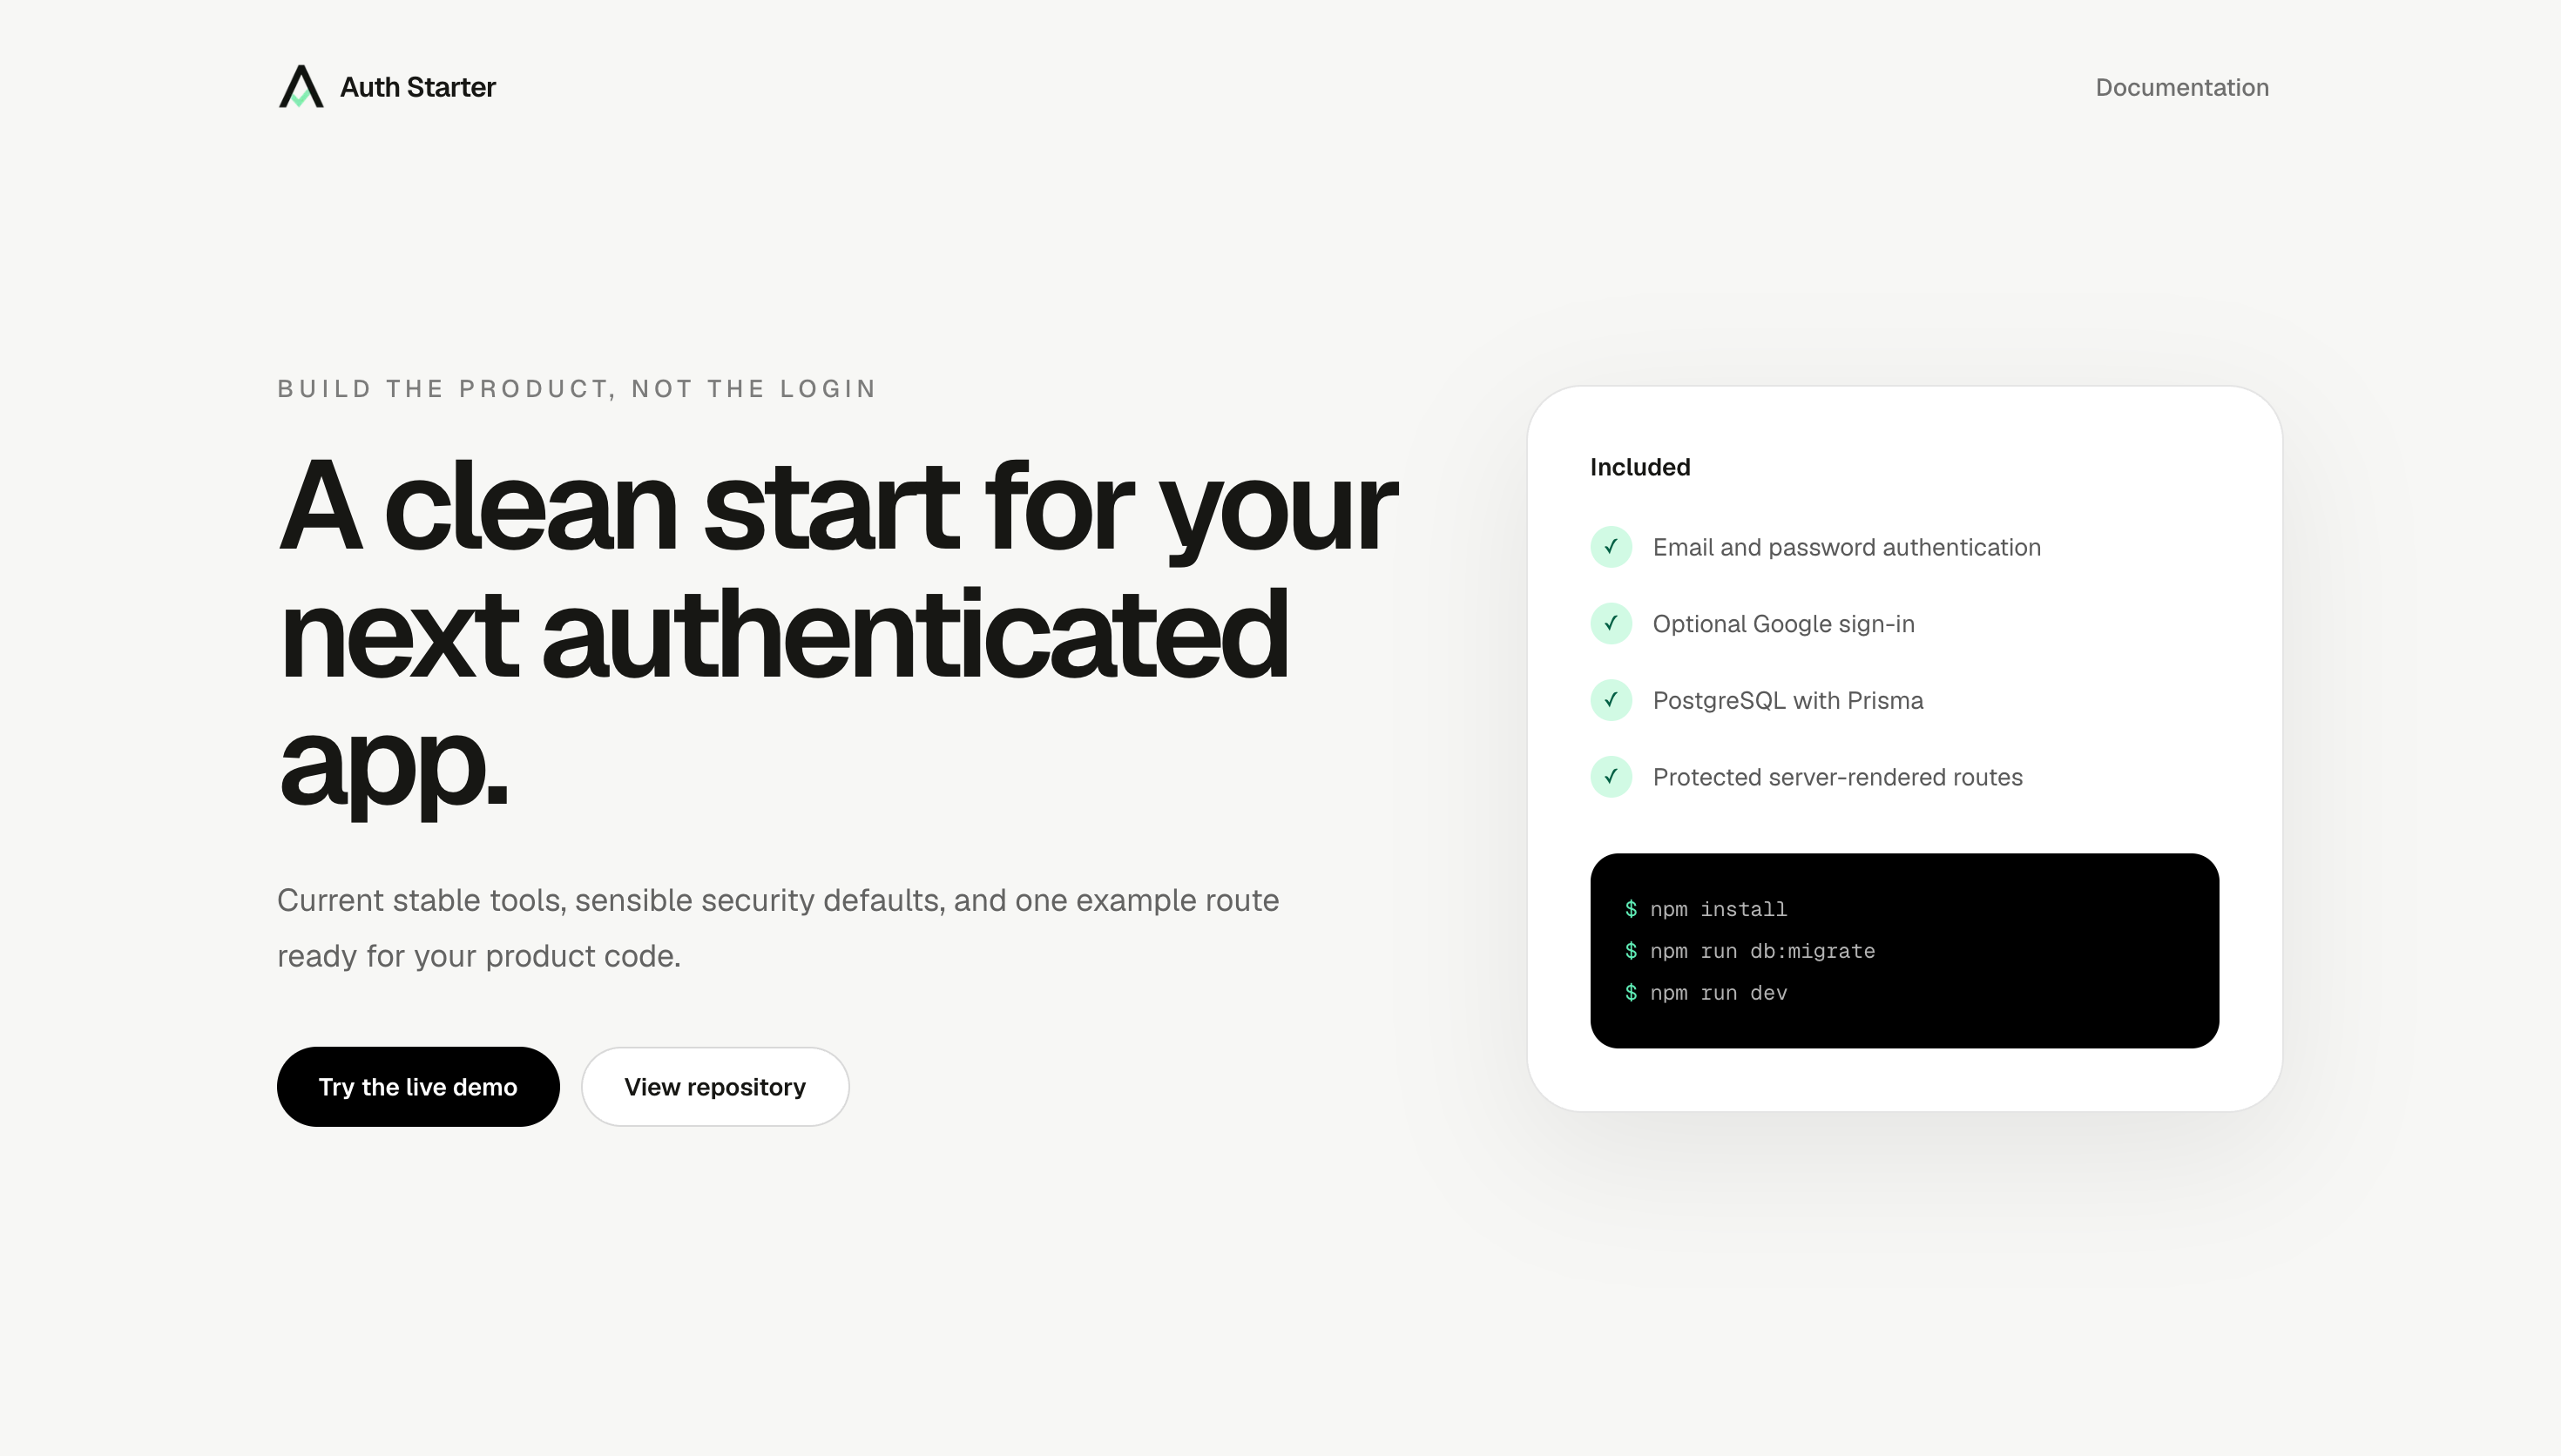
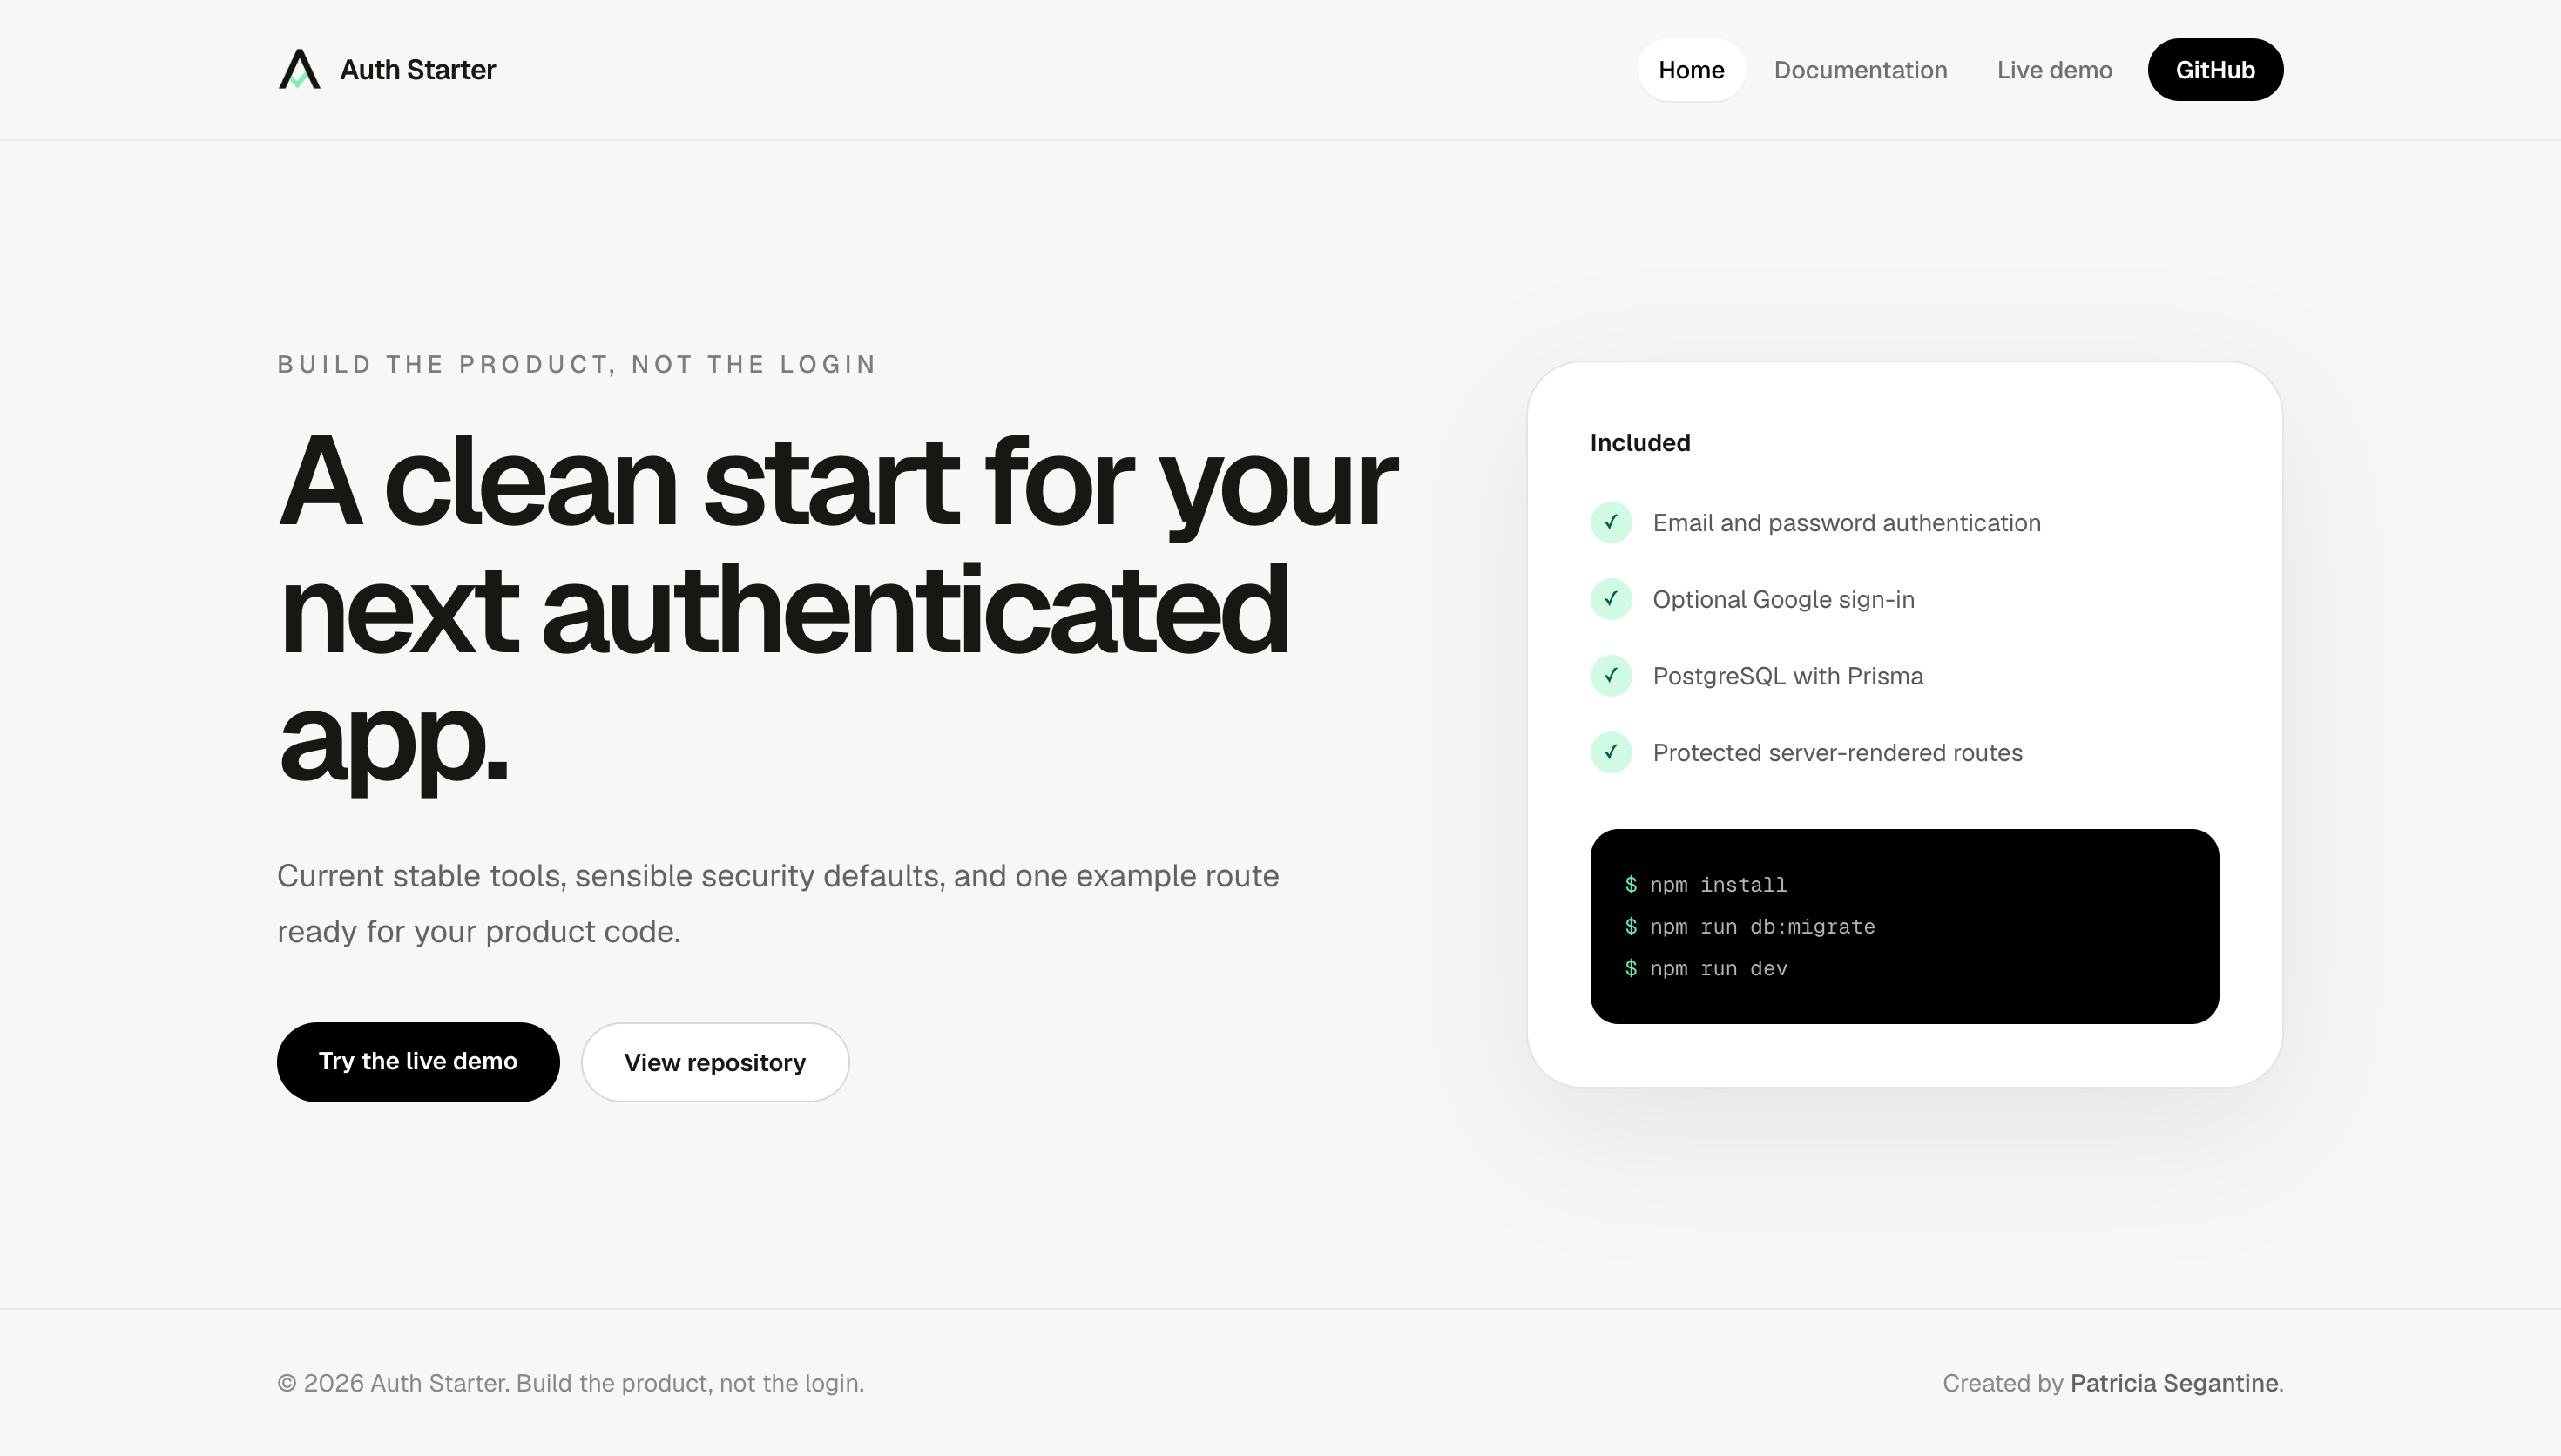
feat: add documentation placeholder and project links

diff --git a/src/app/page.tsx b/src/app/page.tsx
@@ -1,7 +1,7 @@
-"use client";
-
-import Link from "next/link";
-import Image from "next/image";
+import { LiveDemoLink } from "@/components/live-demo-link";
+import { SiteFooter } from "@/components/site-footer";
+import { SiteHeader } from "@/components/site-header";
+import { TEMPLATE_REPOSITORY_URL } from "@/lib/links";
 
 const features = [
   "Email and password authentication",
@@ -12,71 +12,58 @@ const features = [
 
 export default function Home() {
   return (
-    <main className="min-h-screen px-6 py-8 sm:px-10">
-      <nav className="mx-auto flex max-w-6xl items-center justify-between">
-        <Link href="/" className="flex items-center gap-2 font-semibold tracking-tight">
-          <Image src="/auth-starter-logo.png" alt="" width={24} height={24} priority />
-          <span>Auth Starter</span>
-        </Link>
-        <button
-          type="button"
-          onClick={() => window.alert("Documentation is coming soon.")}
-          className="cursor-pointer px-2 py-2 text-sm font-medium text-black/55 transition hover:text-black"
-        >
-          Documentation
-        </button>
-      </nav>
-
-      <section className="mx-auto grid min-h-[calc(100vh-7rem)] max-w-6xl items-center gap-16 py-20 lg:grid-cols-[1.2fr_0.8fr]">
-        <div>
-          <p className="mb-5 text-sm font-medium uppercase tracking-[0.22em] text-black/50">
-            Build the product, not the login
-          </p>
-          <h1 className="max-w-3xl text-5xl font-semibold leading-[1.02] tracking-[-0.055em] sm:text-7xl">
-            A clean start for your next authenticated app.
-          </h1>
-          <p className="mt-7 max-w-xl text-lg leading-8 text-black/60">
-            Current stable tools, sensible security defaults, and one example
-            route ready for your product code.
-          </p>
-          <div className="mt-9 flex flex-wrap gap-3">
-            <button
-              type="button"
-              onClick={() => window.alert("The live demo is coming soon.")}
-              className="cursor-pointer rounded-full bg-black px-6 py-3 text-sm font-semibold text-white transition hover:bg-black/80"
-            >
-              Try the live demo
-            </button>
-            <a
-              href="https://github.com/patriciasegantine/nextjs-auth-starter-template"
-              target="_blank"
-              rel="noopener noreferrer"
-              className="cursor-pointer rounded-full border border-black/15 bg-white px-6 py-3 text-sm font-semibold transition hover:border-black/35"
-            >
-              View repository
-            </a>
+    <div className="flex min-h-screen flex-col">
+      <SiteHeader currentPage="home" />
+      <main className="flex flex-1 px-6 sm:px-10">
+        <section className="mx-auto grid w-full max-w-6xl flex-1 items-center gap-16 py-14 lg:grid-cols-[1.2fr_0.8fr] lg:py-16">
+          <div>
+            <p className="mb-5 text-sm font-medium uppercase tracking-[0.22em] text-black/50">
+              Build the product, not the login
+            </p>
+            <h1 className="max-w-3xl text-5xl font-semibold leading-[1.02] tracking-[-0.055em] sm:text-7xl">
+              A clean start for your next authenticated app.
+            </h1>
+            <p className="mt-7 max-w-xl text-lg leading-8 text-black/60">
+              Current stable tools, sensible security defaults, and one example
+              route ready for your product code.
+            </p>
+            <div className="mt-9 flex flex-wrap gap-3">
+              <LiveDemoLink
+                label="Try the live demo"
+                className="cursor-pointer rounded-full bg-black px-6 py-3 text-sm font-semibold text-white transition hover:bg-black/80"
+              />
+              <a
+                href={TEMPLATE_REPOSITORY_URL}
+                target="_blank"
+                rel="noopener noreferrer"
+                className="cursor-pointer rounded-full border border-black/15 bg-white px-6 py-3 text-sm font-semibold transition hover:border-black/35"
+              >
+                View repository
+              </a>
+            </div>
           </div>
-        </div>
 
-        <div className="rounded-[2rem] border border-black/10 bg-white p-7 shadow-[0_24px_80px_rgba(0,0,0,0.08)] sm:p-9">
-          <p className="text-sm font-semibold">Included</p>
-          <ul className="mt-6 space-y-5">
-            {features.map((feature) => (
-              <li key={feature} className="flex items-center gap-3 text-sm text-black/65">
-                <span className="grid size-6 place-items-center rounded-full bg-emerald-100 text-xs text-emerald-800">
-                  ✓
-                </span>
-                {feature}
-              </li>
-            ))}
-          </ul>
-          <div className="mt-8 rounded-2xl bg-black p-5 font-mono text-xs leading-6 text-white/70">
-            <p><span className="text-emerald-300">$</span> npm install</p>
-            <p><span className="text-emerald-300">$</span> npm run db:migrate</p>
-            <p><span className="text-emerald-300">$</span> npm run dev</p>
+          <div className="rounded-[2rem] border border-black/10 bg-white p-7 shadow-[0_24px_80px_rgba(0,0,0,0.08)] sm:p-9">
+            <p className="text-sm font-semibold">Included</p>
+            <ul className="mt-6 space-y-5">
+              {features.map((feature) => (
+                <li key={feature} className="flex items-center gap-3 text-sm text-black/65">
+                  <span className="grid size-6 place-items-center rounded-full bg-emerald-100 text-xs text-emerald-800">
+                    ✓
+                  </span>
+                  {feature}
+                </li>
+              ))}
+            </ul>
+            <div className="mt-8 rounded-2xl bg-black p-5 font-mono text-xs leading-6 text-white/70">
+              <p><span className="text-emerald-300">$</span> npm install</p>
+              <p><span className="text-emerald-300">$</span> npm run db:migrate</p>
+              <p><span className="text-emerald-300">$</span> npm run dev</p>
+            </div>
           </div>
-        </div>
-      </section>
-    </main>
+        </section>
+      </main>
+      <SiteFooter />
+    </div>
   );
 }

diff --git a/src/components/site-header.tsx b/src/components/site-header.tsx
@@ -1,0 +1,65 @@
+import Image from "next/image";
+import Link from "next/link";
+import { LiveDemoLink } from "@/components/live-demo-link";
+import { TEMPLATE_REPOSITORY_URL } from "@/lib/links";
+
+type SiteHeaderProps = {
+  currentPage: "home" | "docs";
+};
+
+export function SiteHeader({ currentPage }: SiteHeaderProps) {
+  const navLink =
+    "rounded-full px-3 py-2 text-sm font-medium transition hover:bg-white hover:text-black";
+  const activeNavLink = "bg-white text-black shadow-[0_1px_0_rgba(0,0,0,0.05)]";
+  const inactiveNavLink = "text-black/55";
+
+  return (
+    <header className="sticky top-0 z-20 border-b border-black/[0.06] bg-[#f7f7f5]/90 px-6 backdrop-blur-xl sm:px-10">
+      <div className="mx-auto flex h-20 max-w-6xl items-center justify-between">
+        <Link href="/" className="flex items-center gap-2.5 font-semibold tracking-tight">
+          <Image
+            src="/auth-starter-logo.png"
+            alt=""
+            width={26}
+            height={26}
+            priority
+          />
+          <span>Auth Starter</span>
+        </Link>
+
+        <nav className="flex items-center gap-1" aria-label="Main navigation">
+          <Link
+            href="/"
+            aria-current={currentPage === "home" ? "page" : undefined}
+            className={`${navLink} hidden sm:block ${
+              currentPage === "home" ? activeNavLink : inactiveNavLink
+            }`}
+          >
+            Home
+          </Link>
+          <Link
+            href="/docs"
+            aria-current={currentPage === "docs" ? "page" : undefined}
+            className={`${navLink} ${
+              currentPage === "docs" ? activeNavLink : inactiveNavLink
+            }`}
+          >
+            Documentation
+          </Link>
+          <LiveDemoLink
+            label="Live demo"
+            className={`${navLink} hidden text-black/55 hover:text-black md:block`}
+          />
+          <a
+            href={TEMPLATE_REPOSITORY_URL}
+            target="_blank"
+            rel="noopener noreferrer"
+            className="ml-1 hidden rounded-full bg-black px-4 py-2 text-sm font-semibold text-white transition hover:bg-black/80 sm:block"
+          >
+            GitHub
+          </a>
+        </nav>
+      </div>
+    </header>
+  );
+}

diff --git a/src/app/docs/page.tsx b/src/app/docs/page.tsx
@@ -1,0 +1,49 @@
+import type { Metadata } from "next";
+import Link from "next/link";
+import { SiteFooter } from "@/components/site-footer";
+import { SiteHeader } from "@/components/site-header";
+import { TEMPLATE_REPOSITORY_URL } from "@/lib/links";
+
+export const metadata: Metadata = {
+  title: "Documentation",
+  description: "Auth Starter documentation is currently being prepared.",
+};
+
+export default function DocumentationPage() {
+  return (
+    <div className="flex min-h-screen flex-col">
+      <SiteHeader currentPage="docs" />
+      <main className="flex flex-1 items-center px-6 py-16 sm:px-10">
+        <section className="mx-auto w-full max-w-3xl text-center">
+          <p className="text-sm font-medium uppercase tracking-[0.18em] text-emerald-700">
+            Documentation
+          </p>
+          <h1 className="mt-5 text-4xl font-semibold tracking-[-0.045em] sm:text-6xl">
+            The documentation is on the way.
+          </h1>
+          <p className="mx-auto mt-6 max-w-2xl text-lg leading-8 text-black/60">
+            We are validating the starter end to end before publishing the
+            setup and customization guides. This page will be available soon.
+          </p>
+          <div className="mt-9 flex flex-wrap justify-center gap-3">
+            <Link
+              href="/"
+              className="rounded-full bg-black px-6 py-3 text-sm font-semibold text-white transition hover:bg-black/80"
+            >
+              Back to home
+            </Link>
+            <a
+              href={TEMPLATE_REPOSITORY_URL}
+              target="_blank"
+              rel="noopener noreferrer"
+              className="rounded-full border border-black/15 bg-white px-6 py-3 text-sm font-semibold transition hover:border-black/35"
+            >
+              View template
+            </a>
+          </div>
+        </section>
+      </main>
+      <SiteFooter />
+    </div>
+  );
+}

diff --git a/src/components/live-demo-link.tsx b/src/components/live-demo-link.tsx
@@ -1,0 +1,33 @@
+"use client";
+
+import { useState } from "react";
+import { LIVE_DEMO_URL } from "@/lib/links";
+
+type LiveDemoLinkProps = {
+  className: string;
+  label: string;
+};
+
+export function LiveDemoLink({ className, label }: LiveDemoLinkProps) {
+  const [isOpening, setIsOpening] = useState(false);
+
+  const handleClick = () => {
+    setIsOpening(true);
+    window.setTimeout(() => setIsOpening(false), 1800);
+  };
+
+  return (
+    <a
+      href={LIVE_DEMO_URL}
+      target="_blank"
+      rel="noopener noreferrer"
+      onClick={handleClick}
+      className={className}
+      aria-label={`${label} (opens in a new tab)`}
+    >
+      <span aria-live="polite">
+        {isOpening ? "Opening live demo…" : label}
+      </span>
+    </a>
+  );
+}

diff --git a/src/components/site-footer.tsx b/src/components/site-footer.tsx
@@ -1,0 +1,21 @@
+export function SiteFooter() {
+  return (
+    <footer className="border-t border-black/[0.06] px-6 py-8 sm:px-10">
+      <div className="mx-auto flex max-w-6xl flex-col gap-3 text-sm text-black/45 sm:flex-row sm:items-center sm:justify-between">
+        <p>© 2026 Auth Starter. Build the product, not the login.</p>
+        <p>
+          Created by{" "}
+          <a
+            href="https://patriciasegantine.vercel.app/"
+            target="_blank"
+            rel="noopener noreferrer"
+            className="font-medium text-black/60 transition hover:text-black"
+          >
+            Patricia Segantine
+          </a>
+          .
+        </p>
+      </div>
+    </footer>
+  );
+}

diff --git a/src/lib/links.ts b/src/lib/links.ts
@@ -1,0 +1,5 @@
+export const TEMPLATE_REPOSITORY_URL =
+  "https://github.com/patriciasegantine/nextjs-auth-starter-template";
+
+export const LIVE_DEMO_URL =
+  "https://ps-nextjs-auth-starter-demo.vercel.app";

diff --git a/README.md b/README.md
@@ -1,7 +1,7 @@
-# Auth Starter — Site
+# Auth Starter Site
 
-The public website for Auth Starter, a reusable authentication foundation for
-Next.js applications.
+The public website and documentation for Auth Starter, a reusable
+authentication foundation for Next.js applications.
 
 ![preview](./public/preview.png)
 
@@ -19,21 +19,22 @@ empty project.
 
 ## Current status
 
-This repository currently contains the public landing page and visual identity
-for Auth Starter.
+This repository contains only the public landing page and documentation for
+Auth Starter. Authentication, database, email, and protected-route code belong
+in the separate template repository.
 
 Available now:
 
 - Responsive landing page
 - Project overview
+- Public documentation
 - Adaptive branding and favicon
-- Direct access to the template repository
+- Direct access to the template repository and hosted live demo
 
 Planned for later iterations:
 
-- Public documentation
-- Live authentication demo
 - Architecture and implementation guides
+- Command-line installer
 
 ## Repositories
 
@@ -41,11 +42,14 @@ The project is split into two repositories with separate responsibilities:
 
 | Repository | Responsibility |
 | --- | --- |
-| [nextjs-auth-starter-site](https://github.com/patriciasegantine/nextjs-auth-starter-site) | Public website, documentation, and future live demo |
-| [nextjs-auth-starter-template](https://github.com/patriciasegantine/nextjs-auth-starter-template) | Clean, reusable authentication foundation for new projects |
+| [nextjs-auth-starter-site](https://github.com/patriciasegantine/nextjs-auth-starter-site) | Public landing page and documentation |
+| [nextjs-auth-starter-template](https://github.com/patriciasegantine/nextjs-auth-starter-template) | Authentication implementation and reusable application template |
 
 Keeping them separate ensures that applications created from the template do
 not inherit marketing pages or documentation-specific code.
+
+Try the authentication flow in the
+[hosted live demo](https://ps-nextjs-auth-starter-demo.vercel.app).
 
 ## Run locally
 
@@ -68,13 +72,13 @@ Open [http://localhost:3000](http://localhost:3000).
 ## Future CLI
 
 After the template has been validated in real projects, a possible evolution
-is a CLI for creating a configured application from the terminal:
+is a command-line installer for creating a configured application:
 
 ```bash
 npx create-nextjs-auth-starter my-app
 ```
 
-This is currently an idea under exploration, not a committed release.
+This command is part of the project roadmap and is not available yet.
 
 ## License
 
@@ -84,6 +88,6 @@ MIT
 
 ## Author
 
-Created by **Patricia Segantine** — Senior Frontend Engineer
+Created by **Patricia Segantine**, Senior Frontend Engineer
 
 [LinkedIn](https://linkedin.com/in/patriciasegantine) · [Portfolio](https://patriciasegantine.vercel.app/)